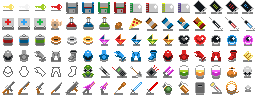
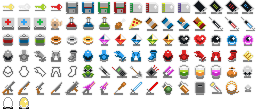
feat(ui): Replace all hearts with eggs, in accordance with Easter festivities 🎉🥚 (#91)
After extensive deliberation, prolonged committee discussions, and
several rounds of metaphorical arm-wrestling over thematic fidelity and
seasonal appropriateness, we have—by unanimous vote and with full quorum
present—decided to proceed with the temporary replacement of all heart
icons with egg representations.

This monumental decision did not come lightly. It involved:

- Aesthetic alignment analysis
- A rigorous review of iconographical tradition vs. festive
reinterpretation
- A week-long Slack thread that began with “what if we...” and spiraled
gloriously from there
- Several highly emotional (and deeply off-topic) debates regarding the
metaphysical overlap between love and cholesterol

But in the end, the symbolism of the egg—rebirth, celebration, and
delicious brunch potential—proved too powerful to ignore. Moreover, it
was noted in the final decision memo:

Accordingly, this commit implements the following changes:

- All ❤ icons are now 🥚

Reversion plan: Hearts will be restored upon the conclusion of the
Easter period or if the community begins to experience existential
confusion regarding the emotional implications of scrambled feelings.

May this yolk bring joy.

Approved by:
- The Design Guild
- The Seasonal Shenanigans Task Force
- Myself

Happy Easter. Egg on.

![image](https://github.com/user-attachments/assets/0dcc52f3-f440-4f78-acaf-4f41b8cec0bb)

diff --git a/renderer/raylib/object_render.py b/renderer/raylib/object_render.py
@@ -13,7 +13,9 @@ class ObjectRenderer:
         module_path = os.path.dirname(__file__)
         sprites_dir = os.path.join(module_path, "../assets/")
         sprite_sheet_path = os.path.join(sprites_dir, sprite_sheet)
-        assert os.path.exists(sprite_sheet_path), f"Sprite sheet {sprite_sheet_path} does not exist"
+        assert os.path.exists(sprite_sheet_path), (
+            f"Sprite sheet {sprite_sheet_path} does not exist"
+        )
         self.sprite_sheet = rl.LoadTexture(sprite_sheet_path.encode())
         self.tile_size = tile_size
 
@@ -21,17 +23,31 @@ class ObjectRenderer:
         return (0, 0)
 
     def render(self, obj, render_tile_size):
-        dest_rect = (obj["c"] * render_tile_size, obj["r"] * render_tile_size, render_tile_size, render_tile_size)
+        dest_rect = (
+            obj["c"] * render_tile_size,
+            obj["r"] * render_tile_size,
+            render_tile_size,
+            render_tile_size,
+        )
         tile_idx_x, tile_idx_y = self._sprite_sheet_idx(obj)
-        src_rect = (tile_idx_x * self.tile_size, tile_idx_y * self.tile_size, self.tile_size, self.tile_size)
+        src_rect = (
+            tile_idx_x * self.tile_size,
+            tile_idx_y * self.tile_size,
+            self.tile_size,
+            self.tile_size,
+        )
 
-        rl.DrawTexturePro(self.sprite_sheet, src_rect, dest_rect, (0, 0), 0, colors.WHITE)
+        rl.DrawTexturePro(
+            self.sprite_sheet, src_rect, dest_rect, (0, 0), 0, colors.WHITE
+        )
 
 
 class AgentRenderer(ObjectRenderer):
     def __init__(self, cfg: OmegaConf):
         super().__init__("monsters.png", 16)
-        self._cfgs = DictConfig({**{c.id: OmegaConf.merge(cfg.agent, c.props) for c in cfg.groups.values()}})
+        self._cfgs = DictConfig(
+            {**{c.id: OmegaConf.merge(cfg.agent, c.props) for c in cfg.groups.values()}}
+        )
         self.sprites = {c.id: c.sprite for c in cfg.groups.values()}
 
         self.obs_width = 11  # Assuming these values, adjust if necessary
@@ -56,7 +72,9 @@ class AgentRenderer(ObjectRenderer):
 
     def draw_hp_bar(self, obj, render_tile_size):
         x = obj["c"] * render_tile_size
-        y = obj["r"] * render_tile_size - 4  # 4 pixels above the agent, below energy bar
+        y = (
+            obj["r"] * render_tile_size - 4
+        )  # 4 pixels above the agent, below energy bar
         width = render_tile_size
         height = 3  # 3 pixels tall
 
@@ -154,9 +172,9 @@ class GeneratorRenderer(ConverterRenderer):
 class AltarRenderer(ConverterRenderer):
     def _sprite_sheet_idx(self, obj):
         return {
-            "empty": (11, 2),
+            "empty": (0, 6),  # Use (11, 2),to get heart.
             "converting": (10, 3),
-            "has_inventory": (12, 2),
+            "has_inventory": (1, 6),  # Use (12, 2) to get heart.
         }[self._state(obj)]
 
 
